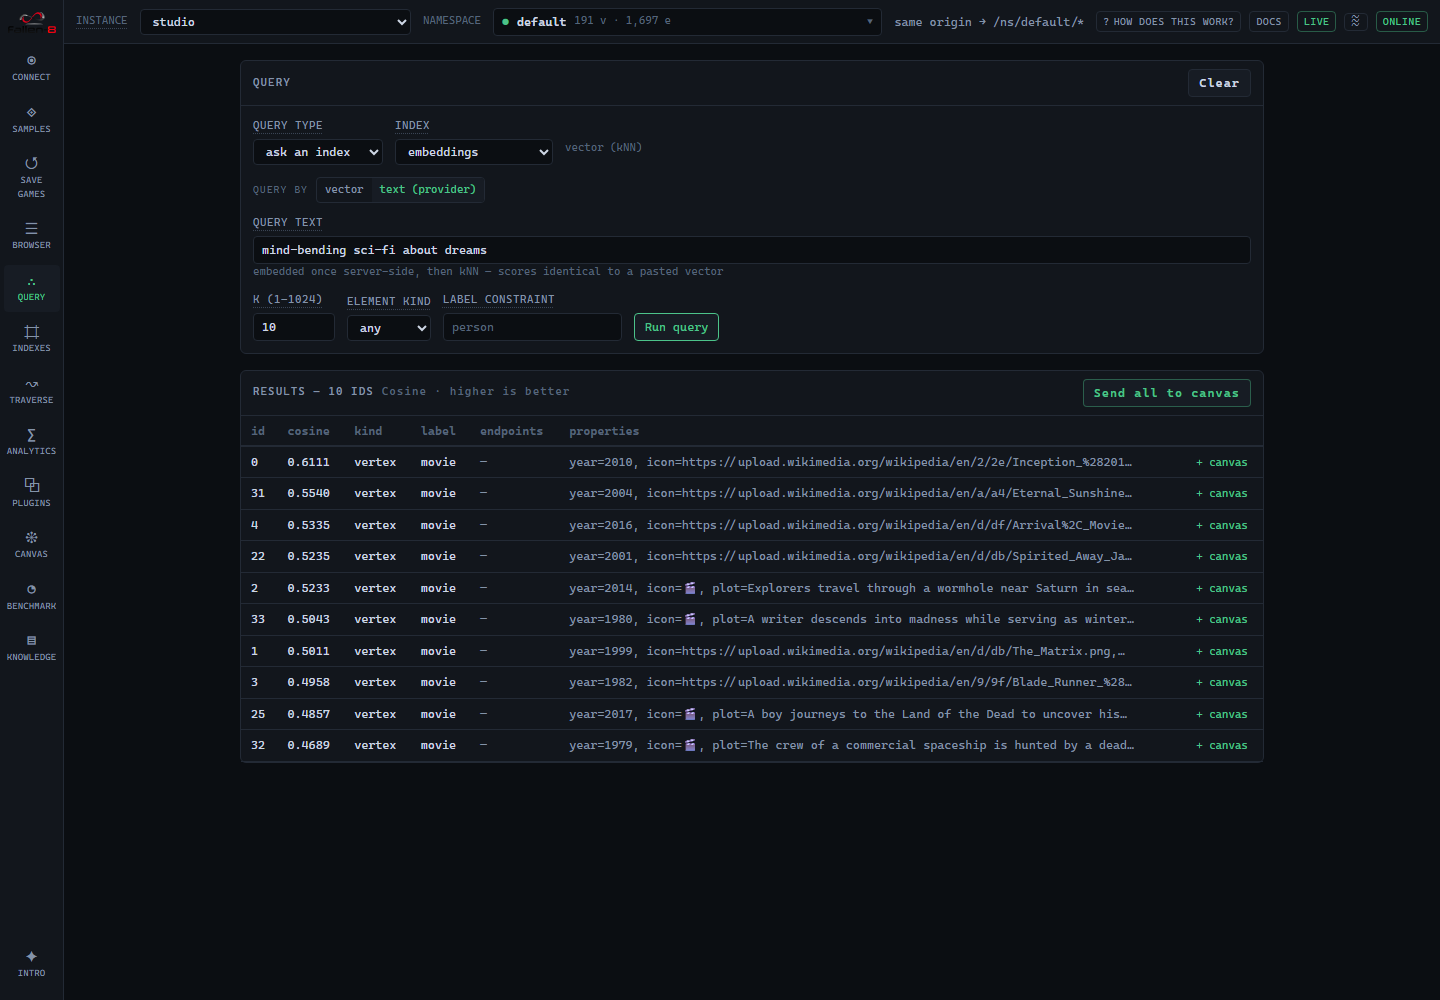
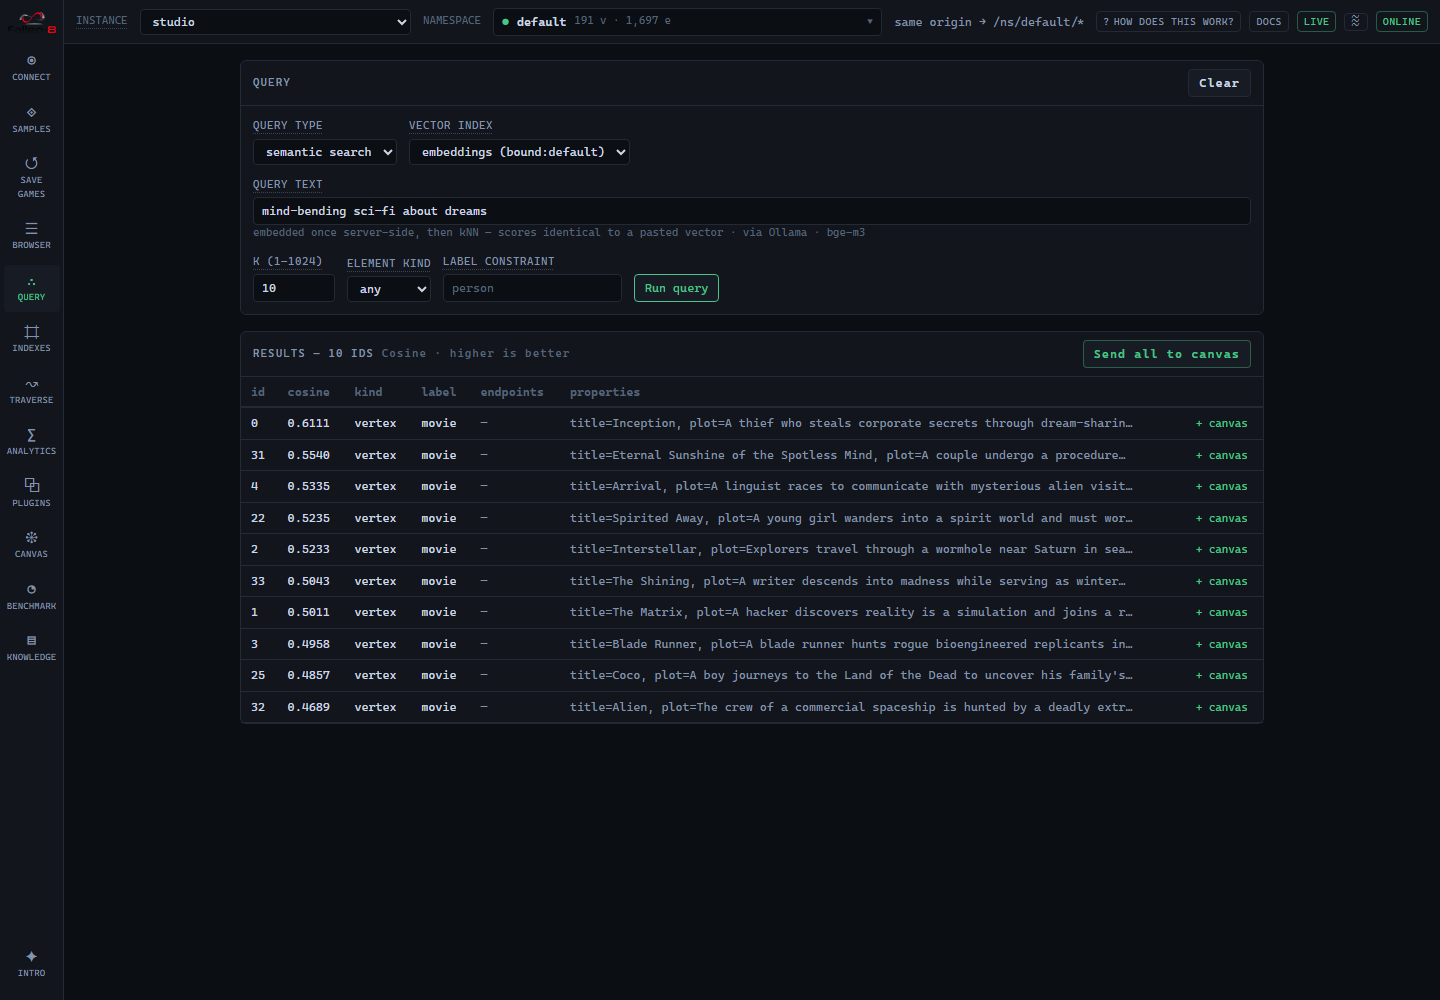
docs: recapture the semantic search frame, against a provider that can actually rank
The published frame still pictured the source toggle the semantic mode replaced, so it was
pulled from the Samples page rather than left contradicting the prose above it. It is back,
and it needed a real bge-m3: Movie Night's plot vectors carry the stamp bge-m3#1024#Cosine,
and the index declares no model, so only the dimension is enforced - any other 1024-wide
model would have passed the contract and ranked a different film. The capture spec asserts
the top row is vertex 0, which is what makes that a failed run instead of a published lie.

No download was involved, which is the part worth remembering: the weights were already in
the f8-ollama-models volume from an earlier env:up, so serving them was a container start.
The apiApp ran natively against it with the compose environment's own Fallen8__Embedding__*
values.

The new frame shows more than the one it replaces: the query mode, the picker naming the
embedding the index projects, the caption naming Ollama and bge-m3 as what turned the
sentence into a vector, and the full ranked table - Inception at 0.6111, then Eternal
Sunshine of the Spotless Mind, Arrival and Spirited Away, none of which share a word with
"mind-bending sci-fi about dreams". The caption and the surrounding prose say that.

The feature record is updated: FR-5 is complete, and the one screenshot still outstanding is
named as such - the Indexes pointer is photographed nowhere, because that capture leaves the
[…]

Changed region(s): [[0.1562, 0.124, 0.875, 0.775]]

diff --git a/features/done/semantic-search-onramp/spec.md b/features/done/semantic-search-onramp/spec.md
@@ -163,13 +163,16 @@ came back byte-identical, rather than by guessing.*
   that fix came back visually identical to the committed frame (119 bytes of antialiasing), which
   is why the image is left alone: the hardening is preventative, not a repair. Photographing the
   pointer needs a capture with one non-vector index present, listed as a follow-up.*
-- *`query-semantic-search.png` shows the removed toggle and **could NOT be recaptured**: Movie
-  Night's baked plot vectors are 1024-dimensional bge-m3, so the frame needs a provider of
-  matching model identity or the search answers 409. No such backend is available in this
-  environment (no Ollama, no remote credential), and per the capture spec's own documented rule
-  a skip that leaves the good image alone beats a degraded overwrite. The spec's driving code IS
-  updated, so the capture produces the new frame the next time it runs against a provider-backed
-  app. **This is the one piece of FR-5 outstanding.**)*
+- *`query-semantic-search.png` showed the removed toggle. **Recaptured** against a real bge-m3
+  provider, which the frame needs: Movie Night's plot vectors carry the stamp `bge-m3#1024#Cosine`,
+  and a different model would rank a different film even though the index declares no model and so
+  only checks the dimension. The weights were already in the `f8-ollama-models` volume from an
+  earlier `env:up`, so serving them was a container start rather than a download; the apiApp ran
+  natively against it with the compose environment's own `Fallen8__Embedding__*` values. The new
+  frame is a better one than it replaces: it shows the mode, the `bound:default` picker, the
+  provenance caption naming Ollama and bge-m3, and the full ranked table, with Inception first at
+  0.6111 followed by Eternal Sunshine of the Spotless Mind, Arrival and Spirited Away. The capture
+  spec's own assertion (top row id === 0) is what proves the ranking rather than the picture.)*
 
 ## 3. Impact on existing features (mandatory sweep)
 
@@ -286,10 +289,10 @@ support, and the first draft did exactly that in four new places.
     still said "two modes" with `/embedding/search` reachable from the index mode.
     `docs/src/content/docs/studio.md` contradicted itself (its screen table omitted the new mode)
     and did not mention the FR-4 pointer that the recaptured screenshot shows.
-13. **`query-semantic-search.png` was removed from `samples.md`.** It pictures the deleted toggle
-    directly under prose describing the new mode, and cannot be recaptured here (see FR-5). A
-    screenshot that contradicts its own caption is worse than none; the capture spec is updated,
-    so the frame returns the next time it runs against a bge-m3 provider.
+13. **`query-semantic-search.png` pictured the deleted toggle** directly under prose describing
+    the new mode. It was dropped from `samples.md` at review time, on the rule that a screenshot
+    contradicting its own caption is worse than none, and **restored once it was recaptured
+    against a real bge-m3 provider** (see FR-5).
 
 One flagged item was deliberately NOT changed: the placeholder `— pick a vector index —` keeps its
 em dashes to match the `— pick an index —` two controls away. Both reviewers who raised it noted

diff --git a/features/done/semantic-search-onramp/plan.md b/features/done/semantic-search-onramp/plan.md
@@ -131,9 +131,22 @@ Four follow-ups the chair listed as non-blocking were taken anyway, being cheap 
 accuracy: the k and dimension bounds now come from constants rather than five hand-typed copies,
 the bind-embedding field states why it disables the create, the Indexes half of the shared
 dimension guard got the test its twin already had, and a README bullet stopped implying the
-on-ramp checks for embeddings. The rest stay recorded as follow-ups, the largest being the
-`query-semantic-search.png` recapture (needs a bge-m3-identity provider) and photographing the
-FR-4 pointer with one non-vector index present.
+on-ramp checks for embeddings.
+
+**The screenshot follow-up is closed too.** `query-semantic-search.png` was recaptured against a
+real bge-m3 provider and restored to `samples.md`. What made it possible was that the weights were
+already in the `f8-ollama-models` volume, so it took a container start rather than a 1.2 GB pull:
+serve that volume with the repo's own Ollama image, run the apiApp natively against it with the
+compose environment's `Fallen8__Embedding__*` values, and the capture spec does the rest (it
+asserts the top row is vertex 0, so a wrong model fails the run instead of publishing a wrong
+ranking). Recorded here because the next person to need a provider-backed capture will assume a
+download.
+
+Still open, and the only piece of this feature that is: the FR-4 pointer is photographed nowhere.
+`screenshot-indexes.spec.ts` deliberately leaves the inventory empty, and the pointer requires a
+non-empty one. Seeding a single dictionary index in that capture would picture the pointer AND
+give that frame the inventory table it currently lacks, which is a change to another frame's
+subject and so was left for its own decision.
 
 ## Out of the plan, recorded
 

diff --git a/docs/src/content/docs/samples.md b/docs/src/content/docs/samples.md
@@ -245,6 +245,12 @@ Load **Movie Night**, open **Query**, choose the **semantic search** mode, and s
 selected. "mind-bending sci-fi about dreams" ranks Inception top by cosine similarity: the
 query text is embedded once server-side, then run as exact kNN.
 
+![Semantic search on Movie Night: the semantic query mode against the bound 'embeddings' index, ten hits ranked by cosine with Inception first at 0.6111, then Eternal Sunshine of the Spotless Mind, Arrival and Spirited Away.](../../assets/images/query-semantic-search.png)
+
+Nothing in that ranking matches the words typed: it is the plots that are close in embedding
+space. The caption under the query box names the backend and model that turned the sentence
+into a vector, so a result always says where its query came from.
+
 The mechanics (element embeddings, bound indices, the model-identity contract) are in
 [semantic traversal](/semantic-traversal/); the kNN scan itself in [vector search](/vector-search/).
 
